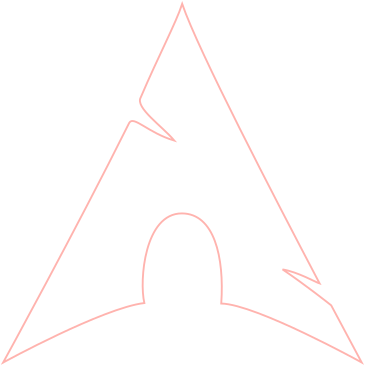
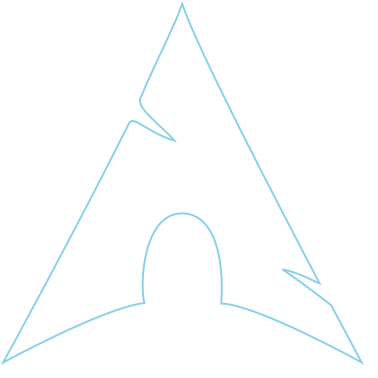
Use the blue wallpaper palette as the default theme colors
Regenerated by matugen from the current wallpaper (primary #86d1e8, replacing
the pink #ffb3ae palette): btop, fastfetch (incl. the Arch logo), fish, the
penguin image, Hyprland and hyprlock, kitty, Quickshell, starship and swaync.

diff --git a/swaync/tokens/variables.css b/swaync/tokens/variables.css
@@ -2,10 +2,10 @@
 
 * {
   /* Backgrounds */
-  --bg-panel:          #231919;
-  --bg-widget:         #271d1d;
-  --bg-tile:           #322827;
-  --bg-tile-hover:     #3d3231;
+  --bg-panel:          #171c1e;
+  --bg-widget:         #1b2022;
+  --bg-tile:           #252b2d;
+  --bg-tile-hover:     #303638;
   --bg-critical:       #93000a;
   --bg-critical-hover: #93000a;
 
@@ -14,27 +14,27 @@
   --shadow-critical:   #93000a;
 
   /* Buttons */
-  --btn-on:            #ffb3ae;
-  --btn-off:           #3d3231;
+  --btn-on:            #86d1e8;
+  --btn-off:           #303638;
 
   /* Accent (primary) */
-  --accent:            #ffb3ae;
-  --on-accent:         #571d1c;
-  --accent-dim:        #733331;
-  --accent-hover:      #ffb3ae;
+  --accent:            #86d1e8;
+  --on-accent:         #003641;
+  --accent-dim:        #004e5e;
+  --accent-hover:      #86d1e8;
 
   /* Hover */
-  --hover-dim:         #3d3231;
+  --hover-dim:         #303638;
 
   /* Borders */
-  --border-subtle:     #534342;
-  --border-glass:      #a08c8b;
+  --border-subtle:     #40484b;
+  --border-glass:      #899296;
 
   /* Text */
-  --text-primary:      #f1dedd;
-  --text-secondary:    #d8c2c0;
-  --text-dim:          #d8c2c0;
-  --text-hover:        #f1dedd;
+  --text-primary:      #dee3e6;
+  --text-secondary:    #bfc8cb;
+  --text-dim:          #bfc8cb;
+  --text-hover:        #dee3e6;
 
   /* Error text */
   --error-text:        #ffdad6;
